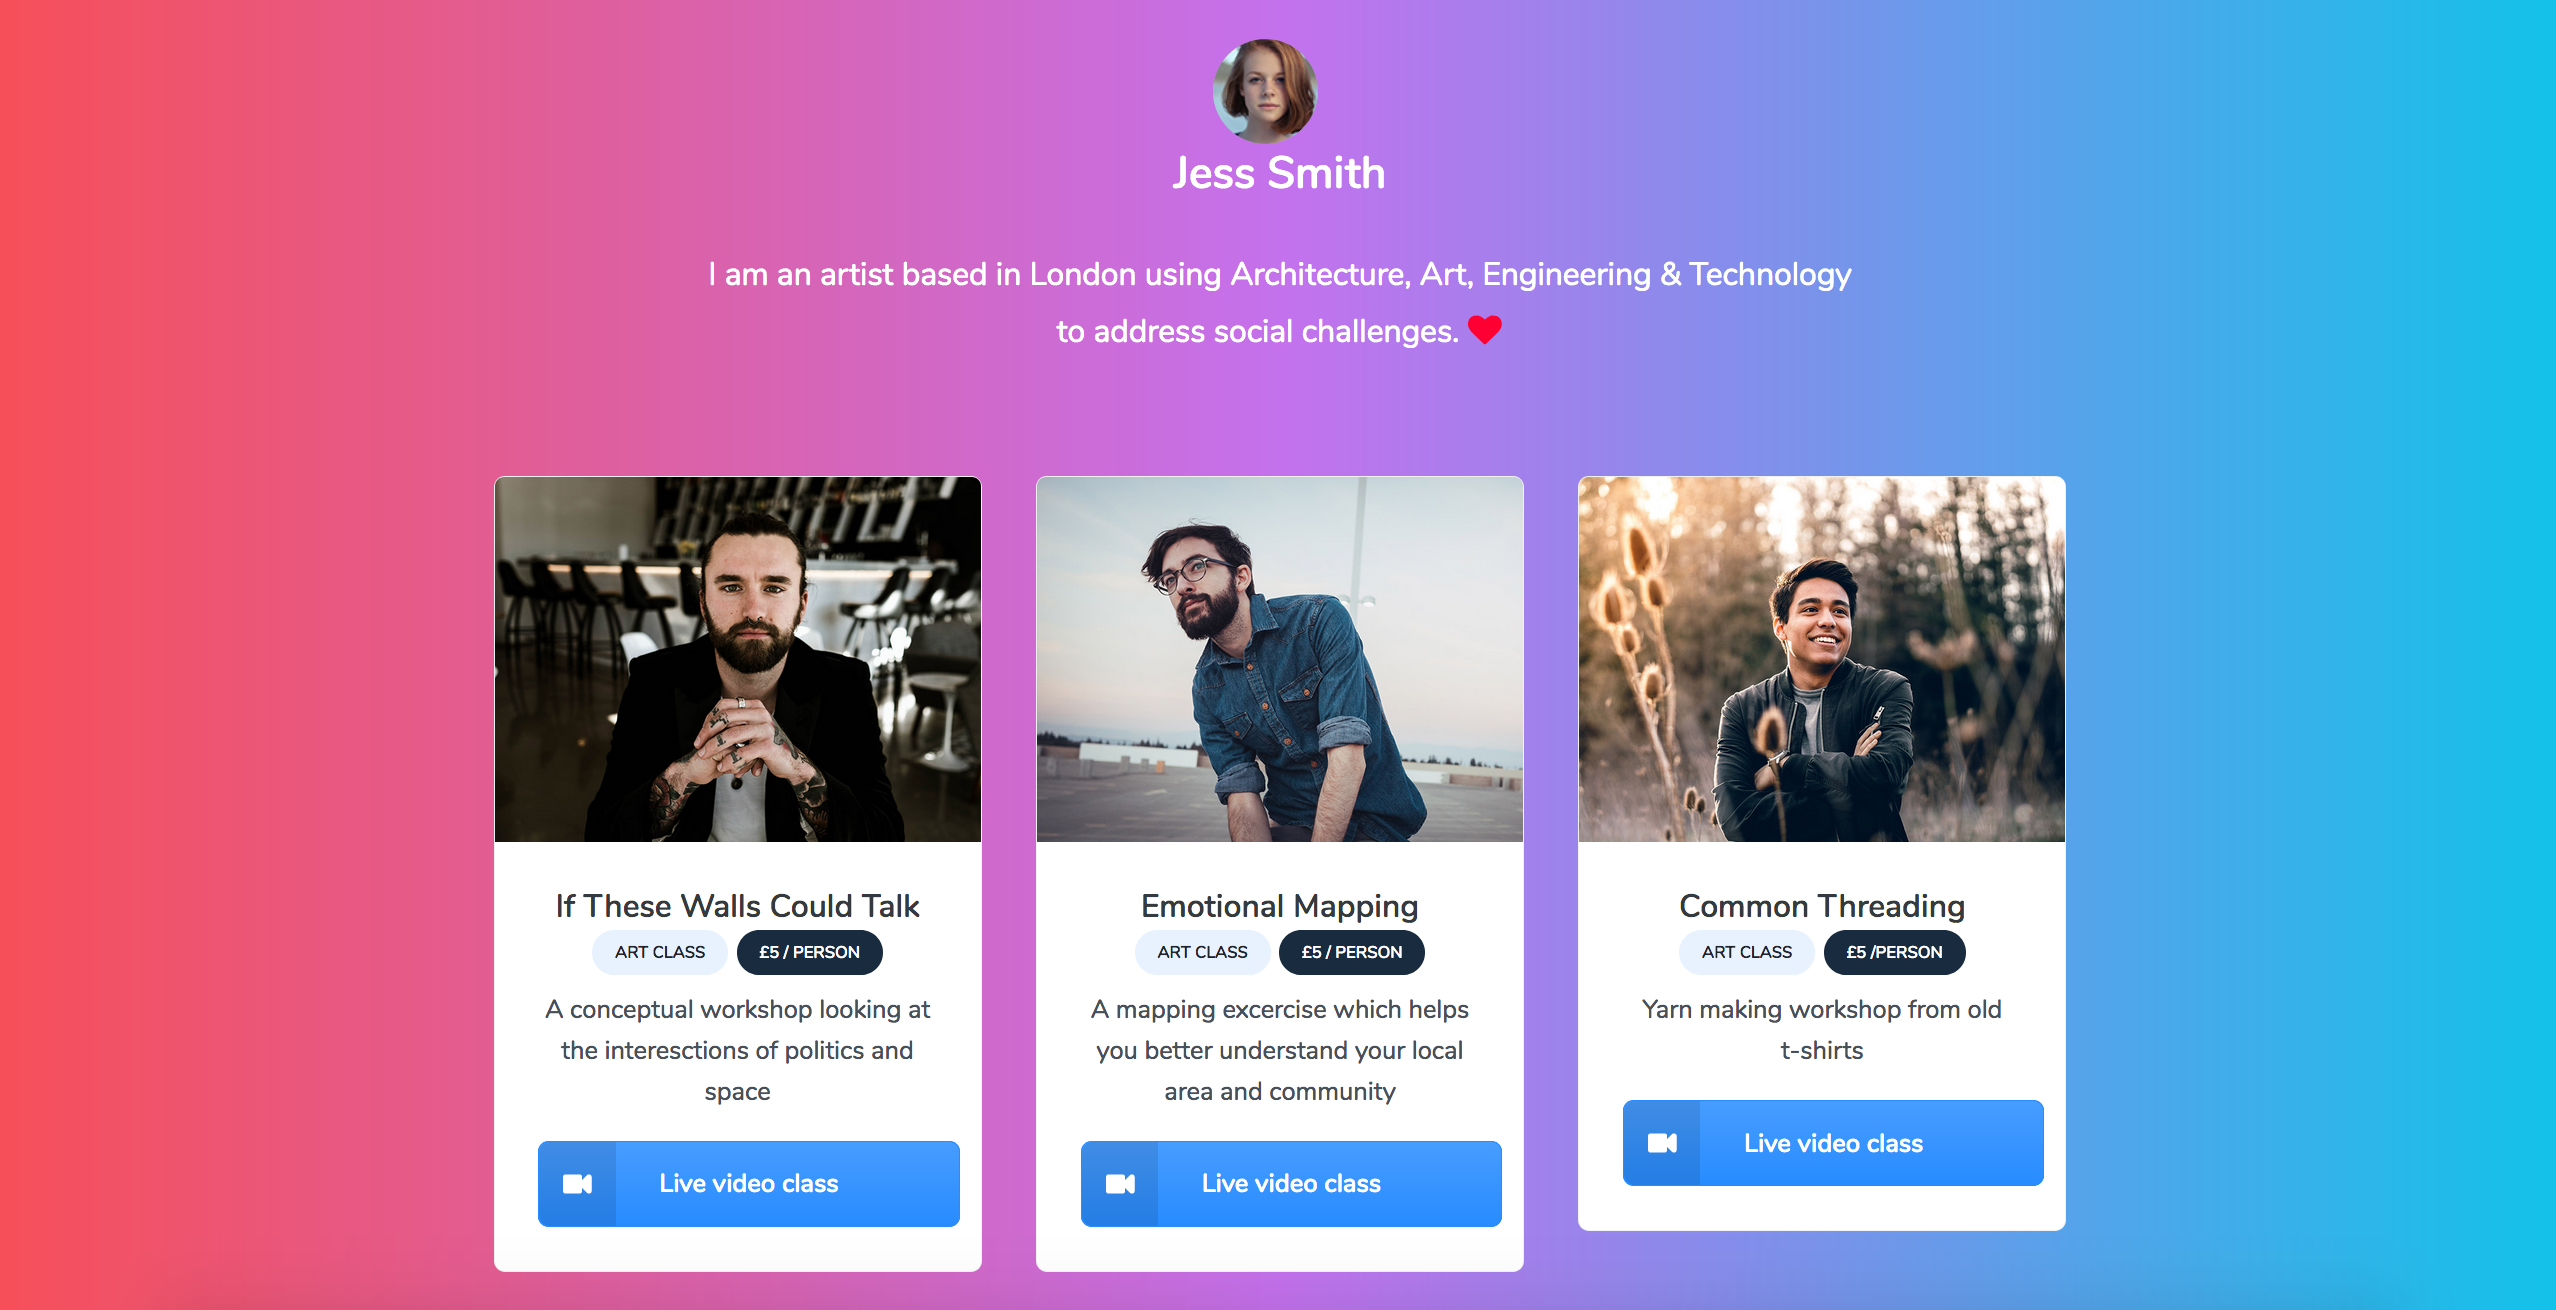
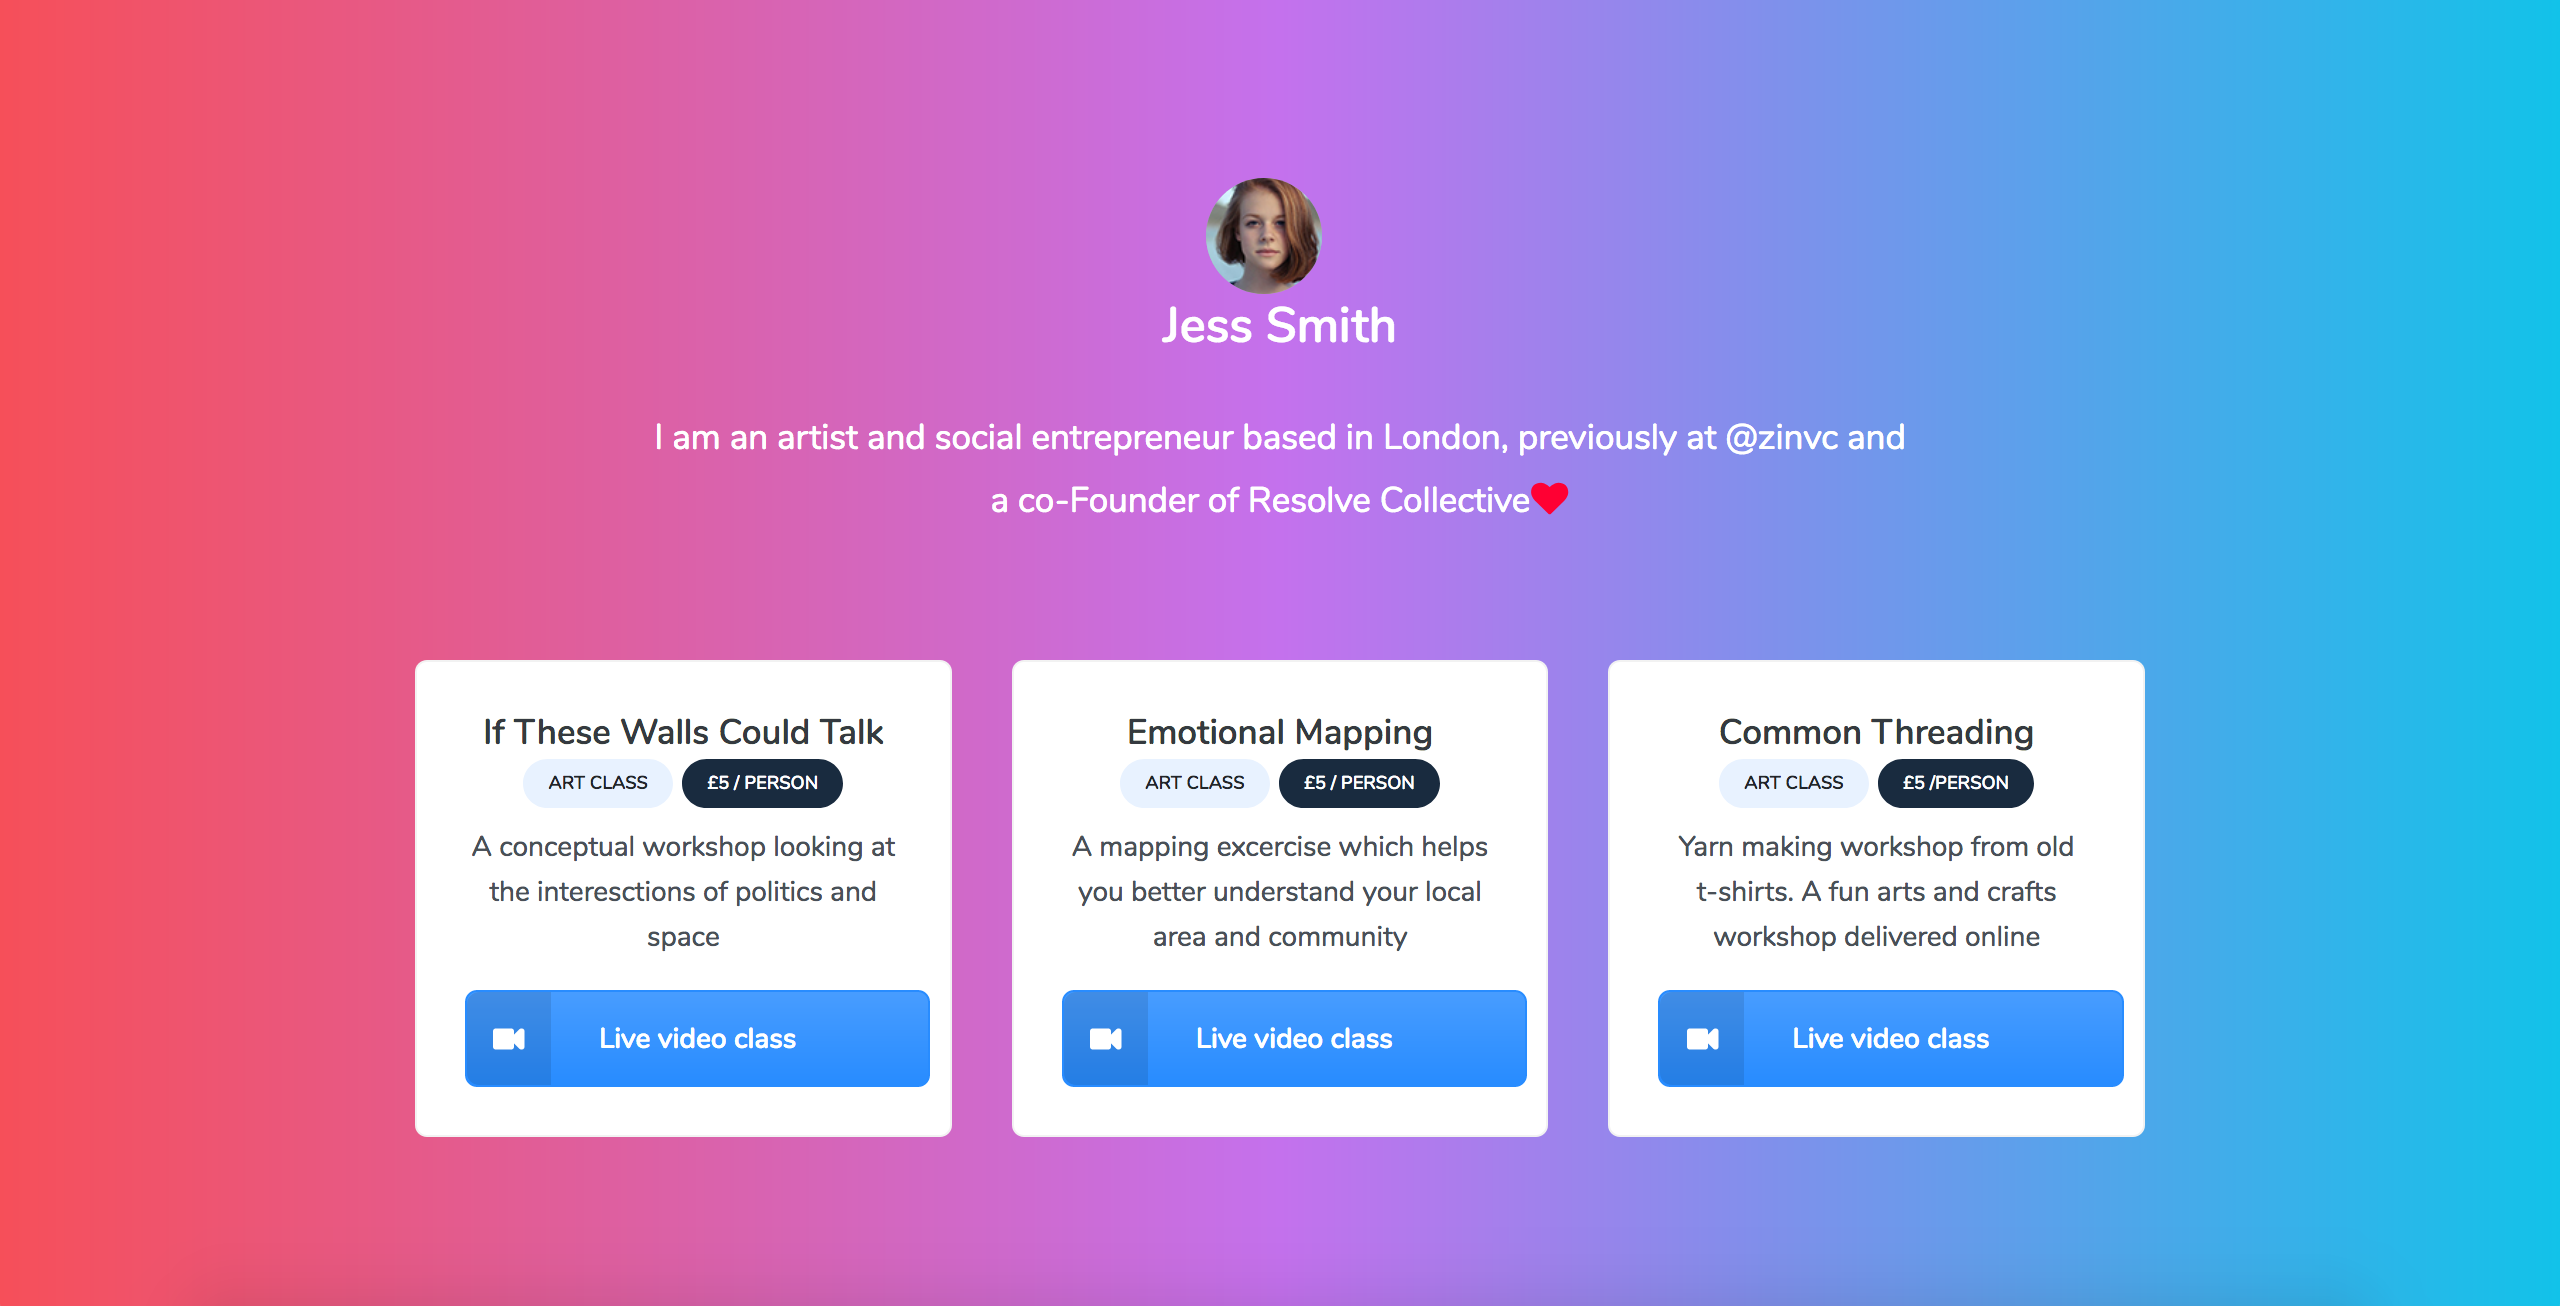
update index page

diff --git a/pages/Profile.html b/pages/Profile.html
@@ -27,7 +27,7 @@ background: linear-gradient(to right, #f64f59, #c471ed, #12c2e9); /* W3C, IE 10+
         <div class="container">
           <div class="mb-md text-center text-white">
             <img src="../assets/images/prv/thumb-1.jpg" class="avatar avatar-lg mr-3">
-            <h3 class="heading h3 text-white">Gameli Ladzekpo</h3>
+            <h3 class="heading h3 text-white">Jess Smith</h3>
             <div class="fluid-paragraph text-center mt-4">
               <p class="lead lh-180">I am an artist and social entrepreneur based in London, previously at @zinvc and a co-Founder of Resolve Collective<i class="fas fa-heart text-danger"></i></p>
             </div>
@@ -35,7 +35,6 @@ background: linear-gradient(to right, #f64f59, #c471ed, #12c2e9); /* W3C, IE 10+
           <div class="row cols-xs-space cols-sm-space cols-md-space col-lg-10 offset-1">
             <div class="col-lg-4">
               <div class="card">
-                <img src="../assets/images/prv/team-1.jpg" class="card-img-top">
                 <div class="card-body text-center">
                   <h3 class="heading h5 mb-1">
                     <span class="d-block">If These Walls Could Talk</span>
@@ -55,7 +54,6 @@ background: linear-gradient(to right, #f64f59, #c471ed, #12c2e9); /* W3C, IE 10+
             </div>
             <div class="col-lg-4">
               <div class="card">
-                <img src="../assets/images/prv/team-2.jpg" class="card-img-top">
                 <div class="card-body text-center">
                   <h3 class="heading h5 mb-1">
                     <span class="d-block">Emotional Mapping</span>
@@ -76,7 +74,6 @@ background: linear-gradient(to right, #f64f59, #c471ed, #12c2e9); /* W3C, IE 10+
             </div>
             <div class="col-lg-4">
               <div class="card">
-                <img src="../assets/images/prv/team-3.jpg" class="card-img-top">
                 <div class="card-body text-center">
                   <h3 class="heading h5 mb-1">
                       <span class="d-block">Common Threading</span>
